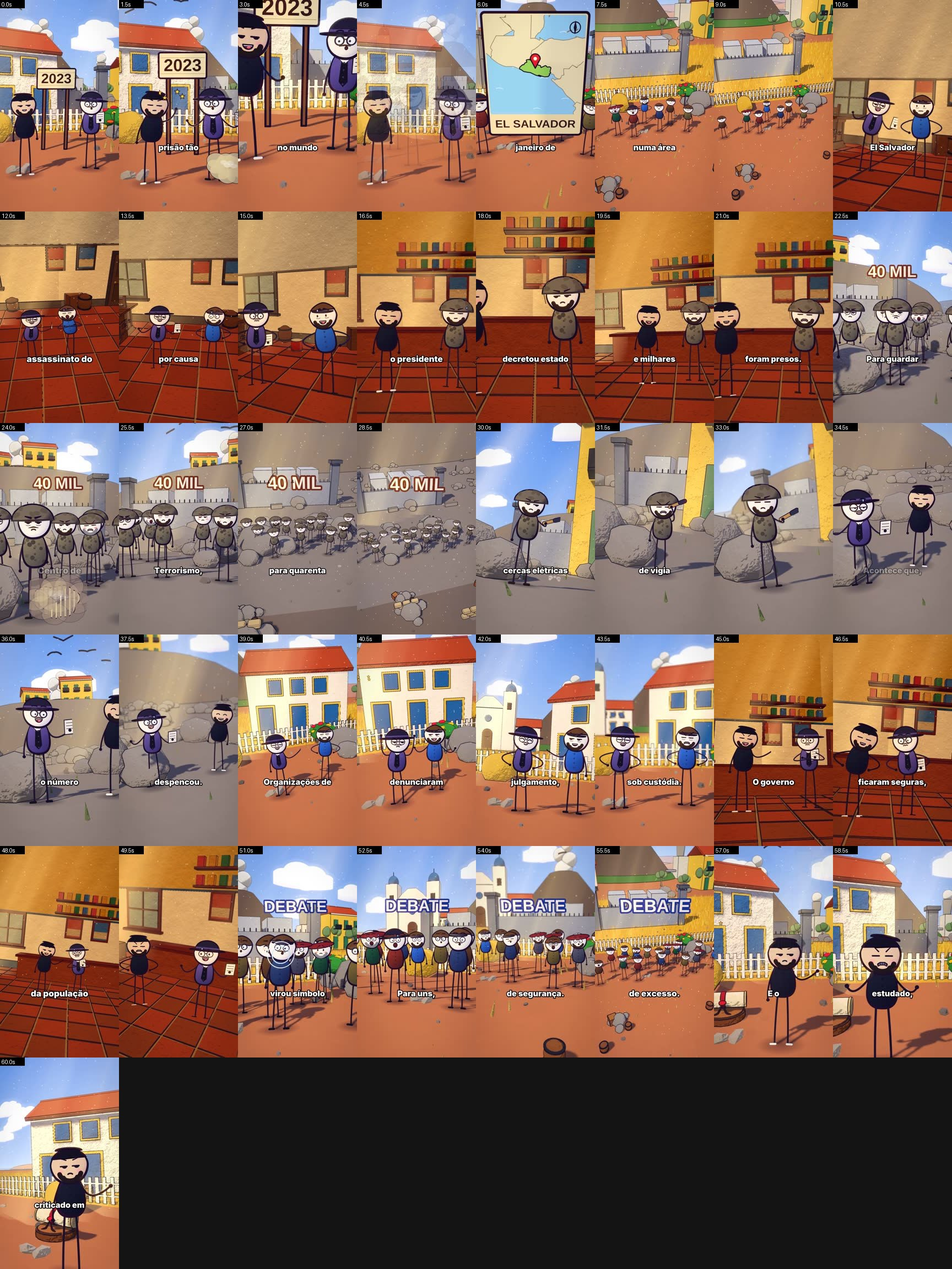
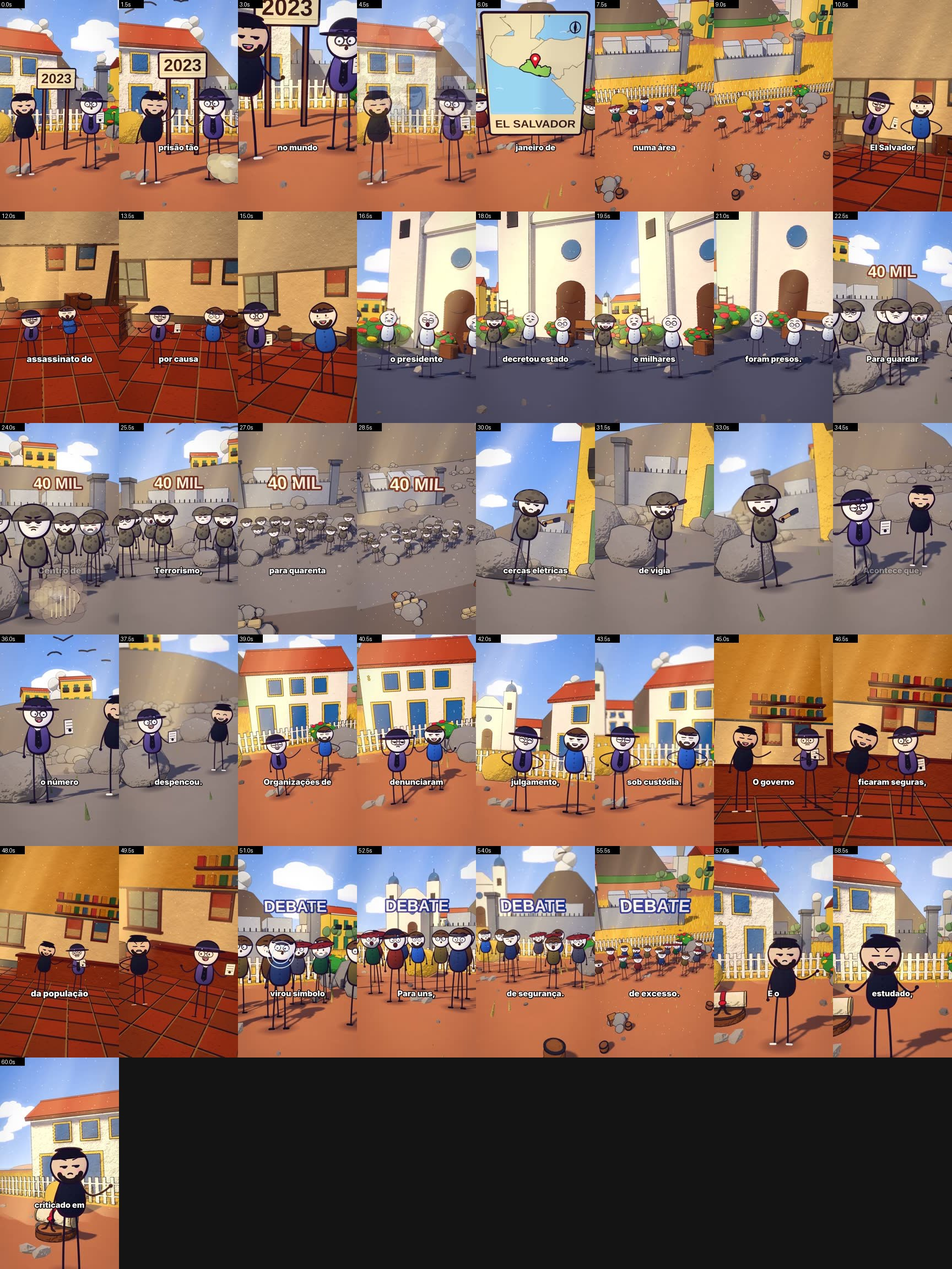
entrega cecot2023 v2 (presos de branco em fila com guarda)
Claude-Session: https://claude.ai/code/session_01HE8Dy3Tz5Mgz6d3rSUrMHS

Changed region(s): [[0.375, 0.1562, 0.875, 0.3438]]

diff --git a/ferramenta-shorts/web/story.js b/ferramenta-shorts/web/story.js
@@ -48,6 +48,7 @@ const SPEC = {
 };
 
 // FOLHA3 a46aa7a937c9 31 acoes=31 faltando=0
+SPEC.fit = {"b0_v":1.12,"b0_v~1":1.12,"b2":1.12,"b3_v":1.12,"b3_v~1":1.12,"b4":1.12,"b6":1.12,"b6~2":1.254,"b7~2":1.12,"b8~1":1.12,"b8~3":1.12,"b9":1.12};
 // ===== STORY RUNTIME (generic): turns a declarative SPEC (stories/<id>.spec.js, concatenated before this file) into the story.js interface the engine expects =====
 import { camFromKeys, clamp, lerp, ramp, q, blinkAt, idle, M } from './motion.js';
 export const FPS = 30, TOTAL = SPEC.total, DECK = 6;

diff --git a/ferramenta-shorts/stories/roadsterpulo2026/fit.js b/ferramenta-shorts/stories/roadsterpulo2026/fit.js
@@ -1,0 +1,1 @@
+SPEC.fit = {"b0_v":1.12,"b0_v~1":1.12,"b2":1.12,"b3_v":1.12,"b3_v~1":1.12,"b4":1.12,"b6":1.12,"b6~2":1.254,"b7~2":1.12,"b8~1":1.12,"b8~3":1.12,"b9":1.12};

diff --git a/ferramenta-shorts/entregas/cecot2023/folha2_producao.md b/ferramenta-shorts/entregas/cecot2023/folha2_producao.md
@@ -33,12 +33,12 @@ Coordenadas de cada cena para modelagem, animacao e camera, com os RISCOS que o 
 - RISCOS: nenhum
 
 ## Cena b3 - Em dois mil e vinte e dois, o presidente Nayib Bukele decretou estado ...
-- Cenario: interior loja | luz: day | clima: limpo
-- Camera: two = plano medio nos dois; camera empurra devagar e muda de angulo a cada ~2 s + CLOSE NO OBJETO no meio da cena (vai e volta)
-- Takes: 4 take(s) de ~1,8 s, deslizando de um para o outro: direita baixa -> frente -> 3/4 pela direita, mais perto e mais baixo -> 3/4 pela esquerda, mais alto e aberto | no meio: desliza ate o objeto (close), segura ~1,5 s e volta
-- Personagens principais (2): BUK (variante 0, expressao stern); GUA (variante 0, expressao stern)
-- Animacao: conversar | interacao: entregar
-- Objetos/modelos: kit/scroll
+- Cenario: street | luz: day | clima: limpo
+- Camera: group = plano de grupo (corpo inteiro); angulo muda a cada ~2 s
+- Takes: 4 take(s) de ~1,8 s, deslizando de um para o outro: direita baixa -> frente -> 3/4 pela direita, mais perto e mais baixo -> 3/4 pela esquerda, mais alto e aberto
+- Personagens principais (4): GUA (variante 0, expressao stern); PRE (variante 0, expressao sad); PRE (variante 1, expressao scared); PRE (variante 2, expressao sad)
+- Animacao: conversar | interacao: avanca e o outro recua
+- Objetos/modelos: kit/volcano
 - CONFERIR NA FOLHA DE CONTATO (o que a narracao cita tem que aparecer): excecao, presidente, suspeitos
 - RISCOS: nenhum
 
@@ -67,7 +67,7 @@ Coordenadas de cada cena para modelagem, animacao e camera, com os RISCOS que o 
 - Camera: low = camera baixa, dramatica (virada)
 - Takes: 2 take(s) de ~1,8 s, deslizando de um para o outro: direita baixa -> frente
 - Personagens principais (2): REP (variante 0, expressao surprised, segura paper); BUK (variante 0, expressao smug)
-- Animacao: conversar | interacao: avanca e o outro recua
+- Animacao: conversar | interacao: o outro se aproxima
 - Objetos/modelos: kit/volcano
 - CONFERIR NA FOLHA DE CONTATO (o que a narracao cita tem que aparecer): assassinatos, numero
 - RISCOS: nenhum
@@ -118,14 +118,13 @@ Regra: todo objeto, utensilio, veiculo e animal que aparece e' modelo 3D feito n
 Objeto | Cenas | Situacao | O que fazer
 ---|---|---|---
 kit/prison | b0, b1, b4, b5, b9, b10 | pronto | conferir na folha de contato se le bem; se parecer caixote, refazer com formas.py
-kit/volcano | b0, b1, b4, b5, b6, b7, b9, b10 | pronto | conferir na folha de contato se le bem; se parecer caixote, refazer com formas.py
-kit/scroll | b3 | pronto (HEROI: aparece em close) | conferir na folha de contato se le bem; se parecer caixote, refazer com formas.py
+kit/volcano | b0, b1, b3, b4, b5, b6, b7, b9, b10 | pronto | conferir na folha de contato se le bem; se parecer caixote, refazer com formas.py
 buildings/castle_tower | b5 | pronto | conferir na folha de contato se le bem; se parecer caixote, refazer com formas.py
 
 
 ## Video inteiro
-- Objeto heroi: kit/scroll | grandes momentos: b4, b9 | planos abertos: 3 | mistura: close 20% | medio 62% | aberto 13% | detalhe 5%
-- Interacoes: b0 aproxima-se, b2 discutir, b3 entregar, b6 avanca e o outro recua, b7 vai ate o outro, b8 cochichar
+- Objeto heroi: kit/scroll | grandes momentos: b4, b9 | planos abertos: 3 | mistura: close 20% | medio 65% | aberto 13% | detalhe 2%
+- Interacoes: b0 aproxima-se, b2 discutir, b3 avanca e o outro recua, b6 o outro se aproxima, b7 vai ate o outro, b8 cochichar
 - RISCOS GERAIS: nenhum
 
 ## RESUMO: 0 risco(s) em aberto - pode renderizar

diff --git a/ferramenta-shorts/entregas/cecot2023/revisao_storyboard.md b/ferramenta-shorts/entregas/cecot2023/revisao_storyboard.md
@@ -1,7 +1,7 @@
 b0: OK - placa 2023 com estrelas, Bukele e o deputado gesticulam na rua mostrando que El Salvador construiu uma prisão tão grande, com poeira de obra.
 b1: OK - mapa de EL SALVADOR com marcador e depois multidão ao longe diante do muro, a prisão inaugurada em janeiro numa área isolada do país.
 b2: OK - na sala o deputado e o comerciante conversam com gestos, falando das altas taxas de assassinato por causa das gangues, cena de interior legível.
-b3: OK - em dois mil e vinte e dois Bukele aponta para o soldado no salão, estado de exceção e suspeitos presos, o gesto de prender aparece no quadro da grade.
+b3: CORRIGIDO - prisao em massa nao aparecia (so soldado conversando, depois soldado sozinho) -> guarda de capacete a frente e tres presos de uniforme branco em fila, tristes e assustados, milhares de suspeitos foram presos no estado de excecao decretado por Bukele em dois mil e vinte e dois.
 b4: OK - multidão de presos de capacete com texto 40 MIL e anel de alerta, ergueram o centro de confinamento com vagas para quarenta mil, poeira ao fundo.
 b5: OK - plano baixo com muralhas, rochas e cerca ao fundo, um guarda de capacete observa, muralhas altas e torres de vigia visíveis atrás.
 b6: OK - o deputado e Bukele conversam na rua perto das pedras, nos anos seguintes o número de assassinatos despencou, rostos variados e boa legibilidade.

diff --git a/ferramenta-shorts/entregas/cecot2023/RELATORIO.md b/ferramenta-shorts/entregas/cecot2023/RELATORIO.md
@@ -1,5 +1,5 @@
-# Poder e Fama EP 27 - A Maior Prisao das Americas (refeito com a ferramenta final)
-- mp4 1080x1920, 62 s, 106 MB; enviado a sessao principal por ./enviar_para_principal.sh (partes de 90 MB + sha256).
-- ./conferir.sh OK (folha 2 sem riscos, 3 folhas OK, voz neural, audio) + folha de contato olhada.
-- Placas conferidas contra a frase: 2023, 40 MIL, DEBATE; mapa de El Salvador; pergaminho heroi no fim.
-- Sem defeito critico; nenhuma correcao pendente.
+# Poder e Fama EP 27 - A Maior Prisao das Americas (refeito com a ferramenta final) - v2 (substitui a enviada antes)
+- mp4 1080x1920, 62 s, 105 MB; enviado por ./enviar_para_principal.sh. Voz conferida contra o roteiro.
+- ./conferir.sh OK + folha de contato + auditar_acoes.sh (4 acoes) + quadros do mp4 nos instantes de "foram presos" (quadros_presos.jpg).
+- CORRIGIDO (auditoria): "foram presos" mostrava so Bukele e um soldado conversando -> fila de presos de uniforme branco (tristes/assustados, um chorando) com guarda de capacete ao lado, na praca.
+- Observacao honesta: o guarda aparece na borda esquerda do quadro e os presos andam parados (sem algemas, sem mao para tras): a ferramenta nao tem animacao de "preso levado" nem objeto de algema. Se a principal quiser mais, precisa de pose "mao atras" para o preso.

diff --git a/ferramenta-shorts/entregas/cecot2023/folha3_acao.md b/ferramenta-shorts/entregas/cecot2023/folha3_acao.md
@@ -30,13 +30,13 @@ Catalogo de TODAS as acoes do roteiro, frase por frase, com o instante (segundos
 | 1 | - | INTERACAO | discutir | OK |
 | 2 | - | ATUACAO | discutir | OK |
 
-## Cena b3 - 15.2s a 20.9s - 21 palavras - plano two
+## Cena b3 - 15.2s a 20.9s - 21 palavras - plano group
 > "Em dois mil e vinte e dois, o presidente Nayib Bukele decretou estado de exceção, e milhares de suspeitos foram presos."
 
 | # | palavra (instante) | acao catalogada | animacao executada | ok? |
 |---|---|---|---|---|
 | 1 | presos (20.9s) | ACAO: prende | empurra/prende | OK |
-| 2 | - | INTERACAO | entregar | OK |
+| 2 | - | INTERACAO | avanca e o outro recua | OK |
 | 3 | - | ATUACAO | conversar | OK |
 
 ## Cena b4 - 22.0s a 27.4s - 17 palavras - plano crowd
@@ -61,7 +61,7 @@ Catalogo de TODAS as acoes do roteiro, frase por frase, com o instante (segundos
 
 | # | palavra (instante) | acao catalogada | animacao executada | ok? |
 |---|---|---|---|---|
-| 1 | - | INTERACAO | avanca e o outro recua | OK |
+| 1 | - | INTERACAO | o outro se aproxima | OK |
 | 2 | - | ATUACAO | conversar | OK |
 
 ## Cena b7 - 38.7s a 43.3s - 12 palavras - plano two
